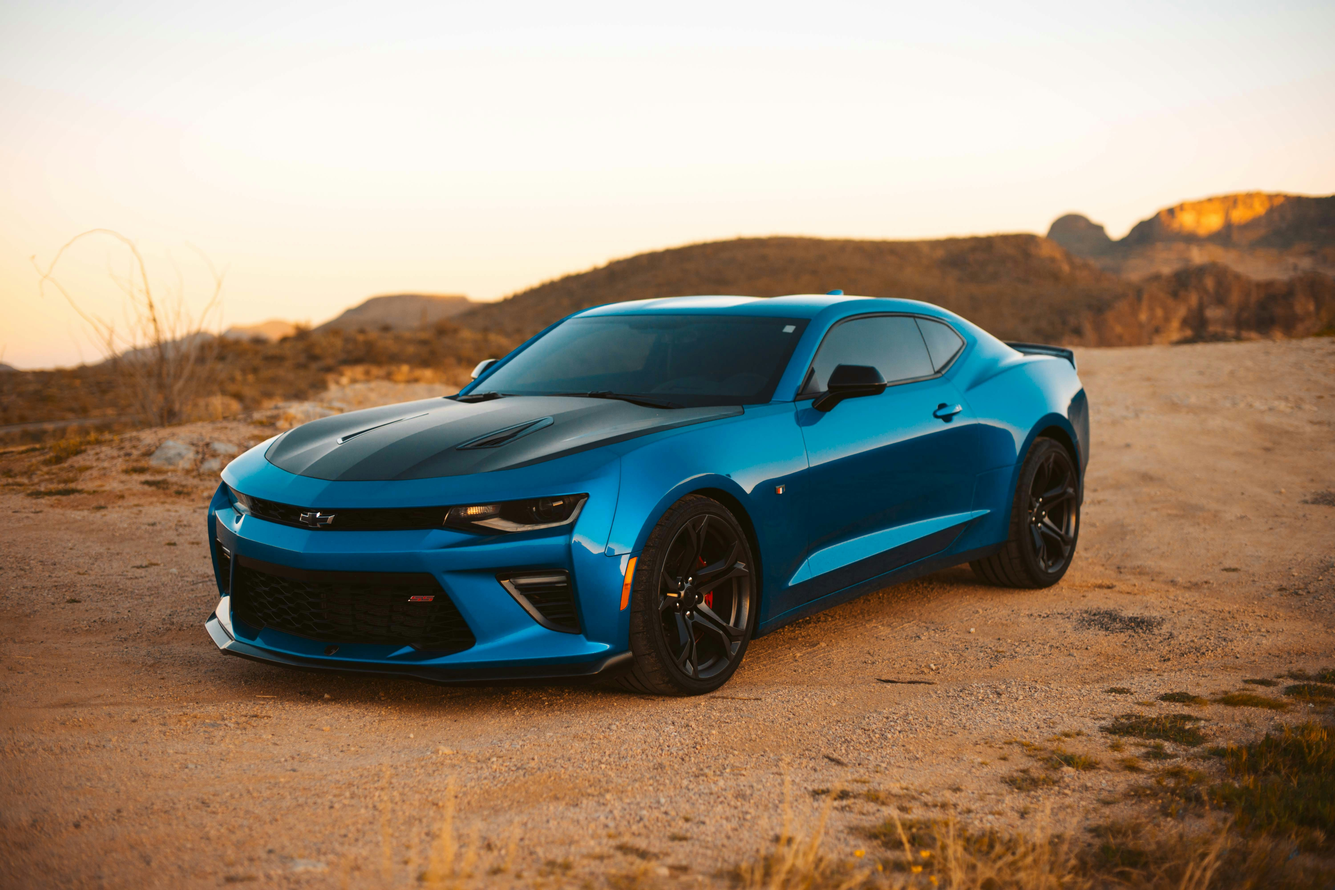
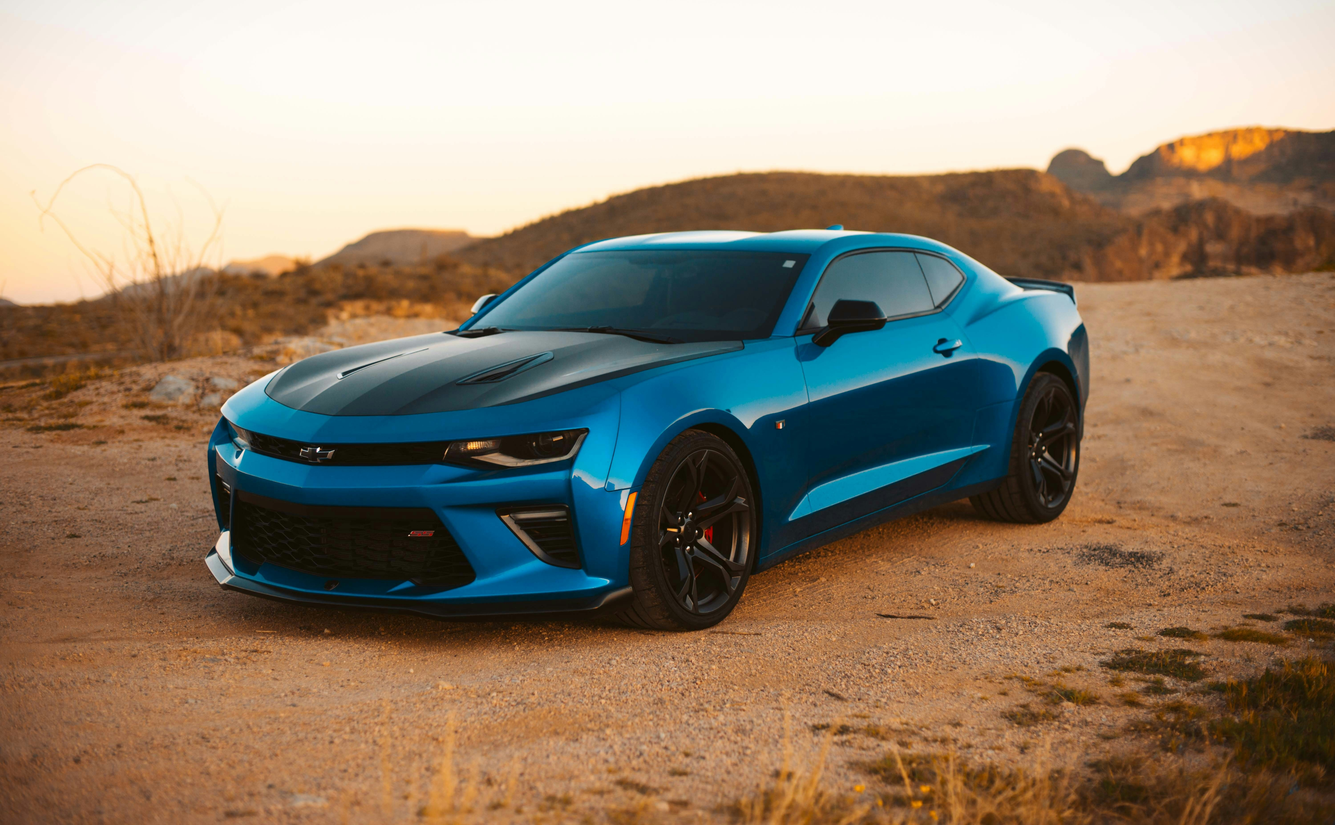
cta section bg image position fixed

diff --git a/src/components/CallToAction.jsx b/src/components/CallToAction.jsx
@@ -5,11 +5,16 @@ const CallToAction = () => {
   return (
     <section
       className="relative bg-cover bg-center bg-no-repeat py-20 px-6 rounded-3xl overflow-hidden max-w-[1200px] mx-auto mt-10 mb-20"
-      style={{ backgroundImage: `url(${ctaBg})` }}
+      style={{
+        backgroundImage: `url(${ctaBg})`,
+        backgroundSize: "cover",
+        backgroundPosition: "center",
+        backgroundRepeat: "no-repeat",
+      }}
     >
       <div className="absolute inset-0 bg-black/50"></div>
 
-      <div className="relative max-w-6xl mx-auto text-center text-gray-200 flex flex-col items-center gap-6">
+      <div className="relative max-w-6xl mx-auto text-center text-gray-200 flex flex-col items-center gap-6 h-[300px]">
         <h2 className="text-4xl md:title font-bold">
           Ready to Drive Your Dream Car?
         </h2>
